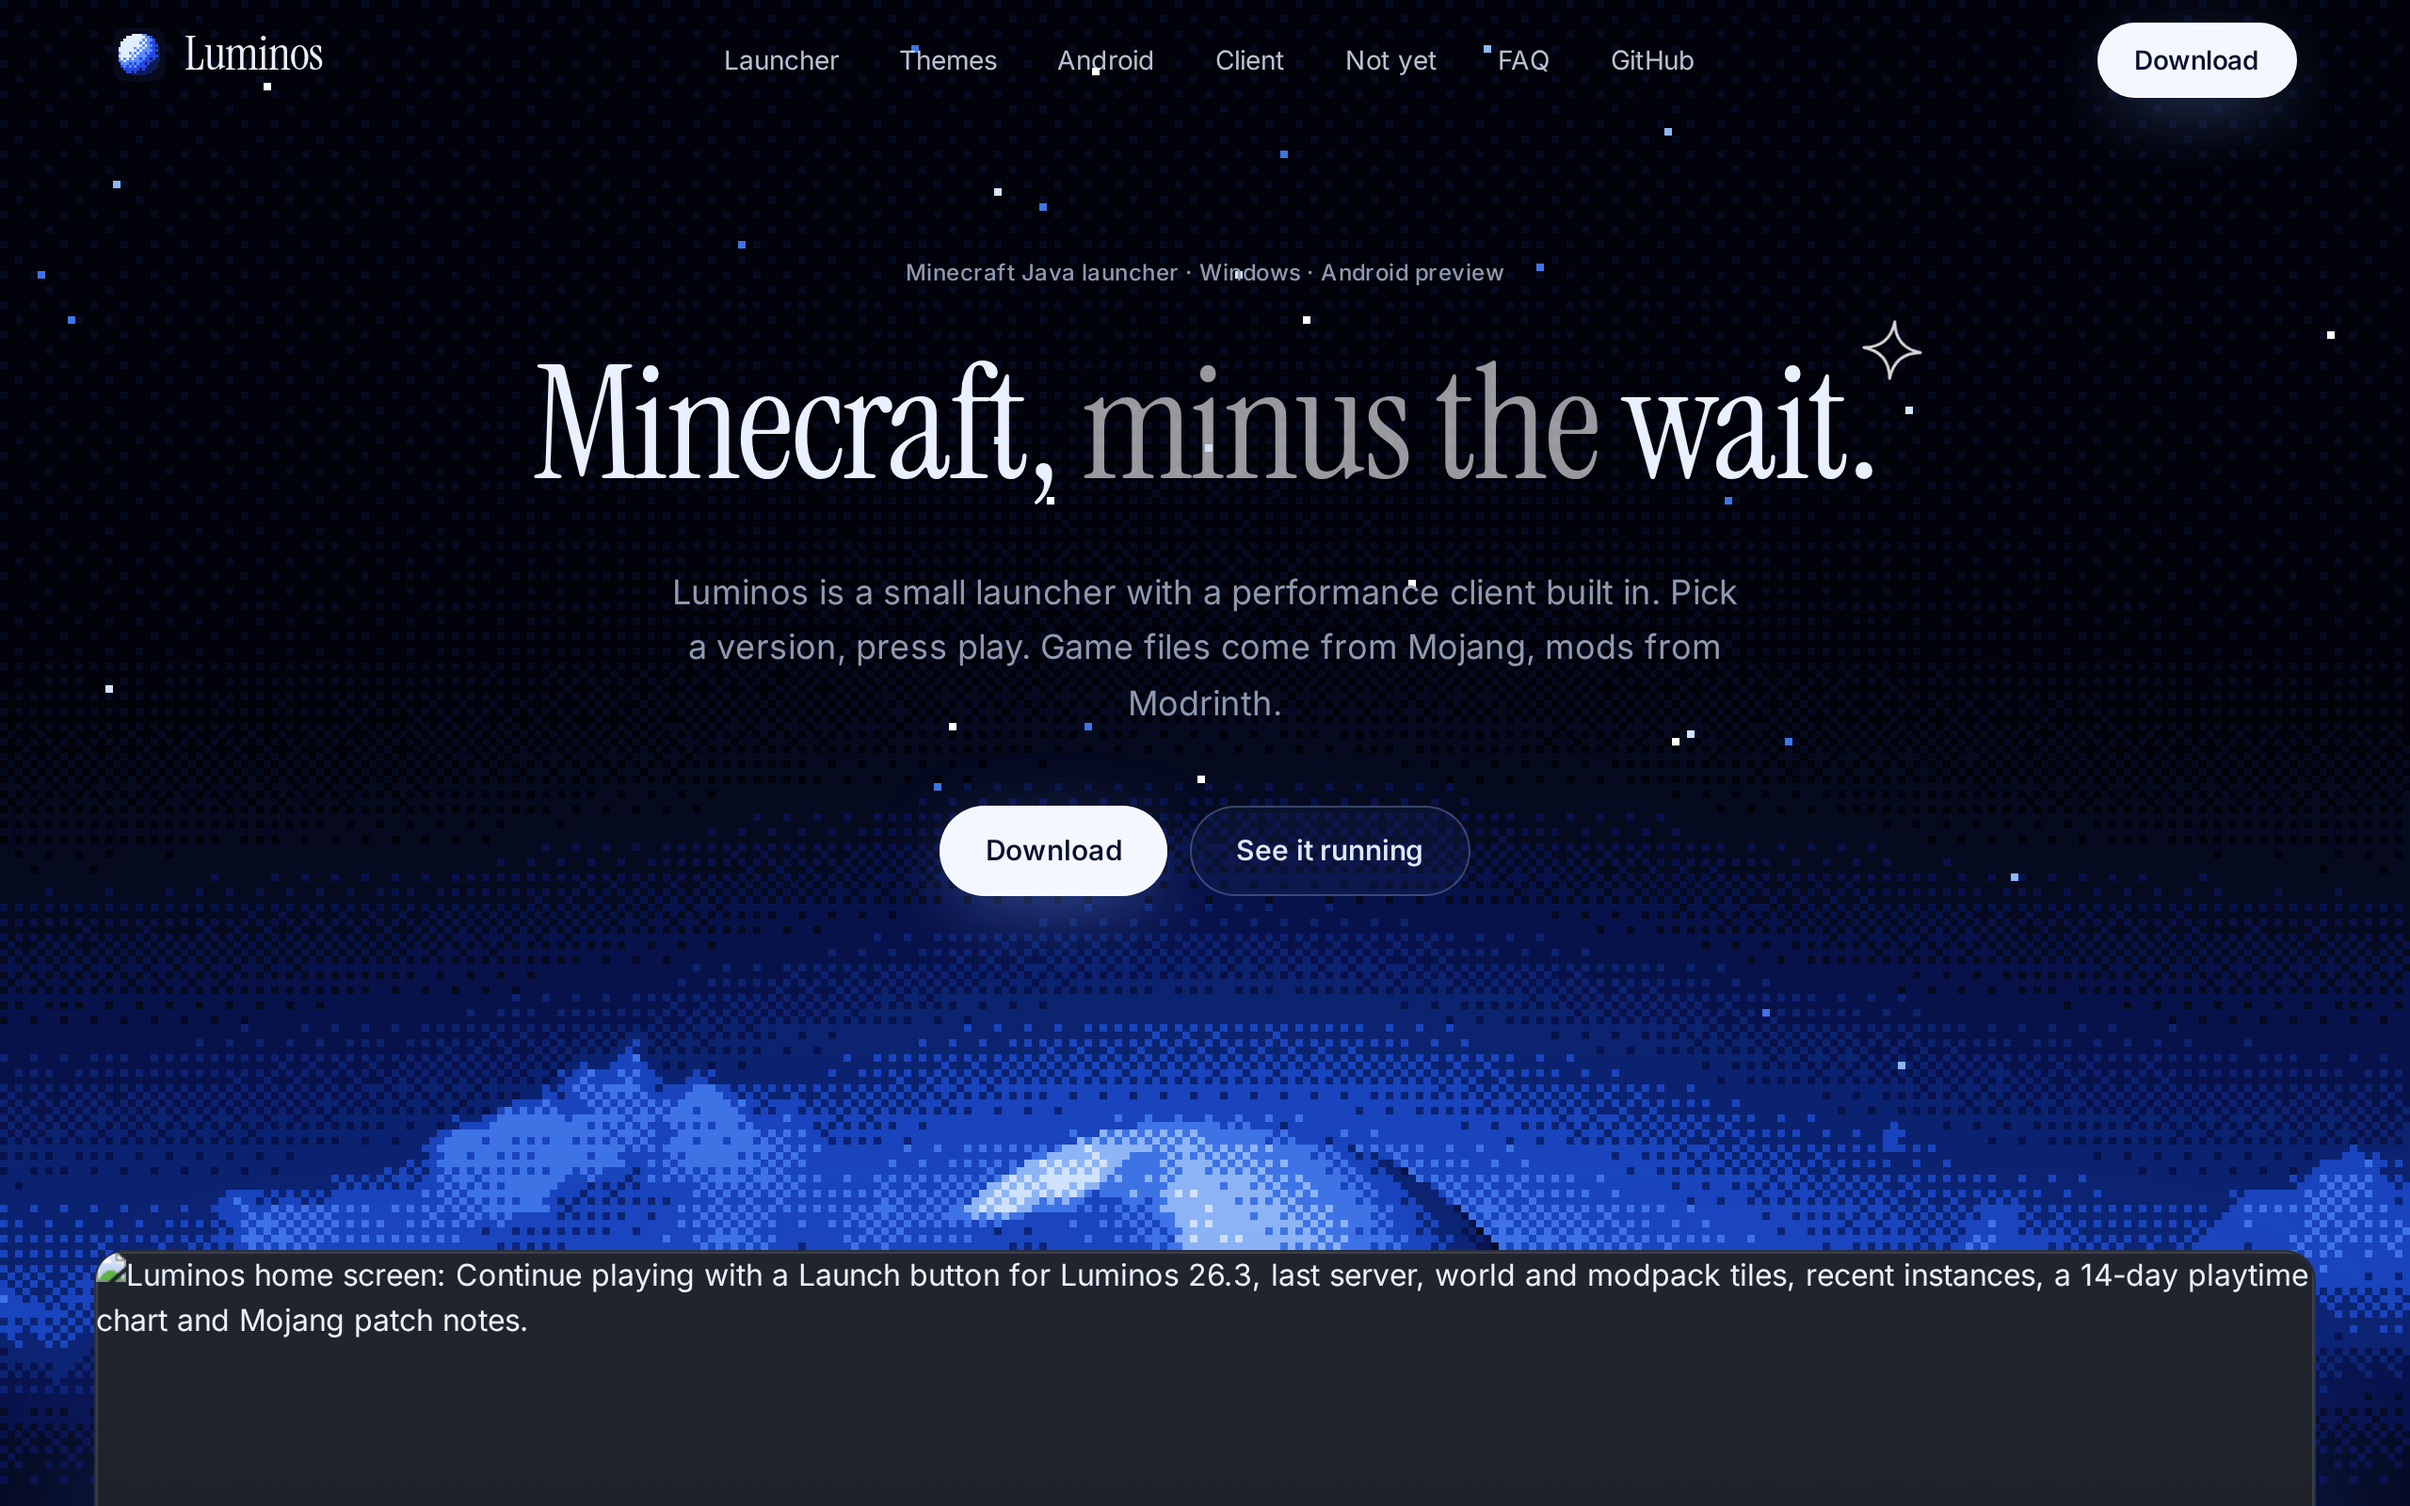
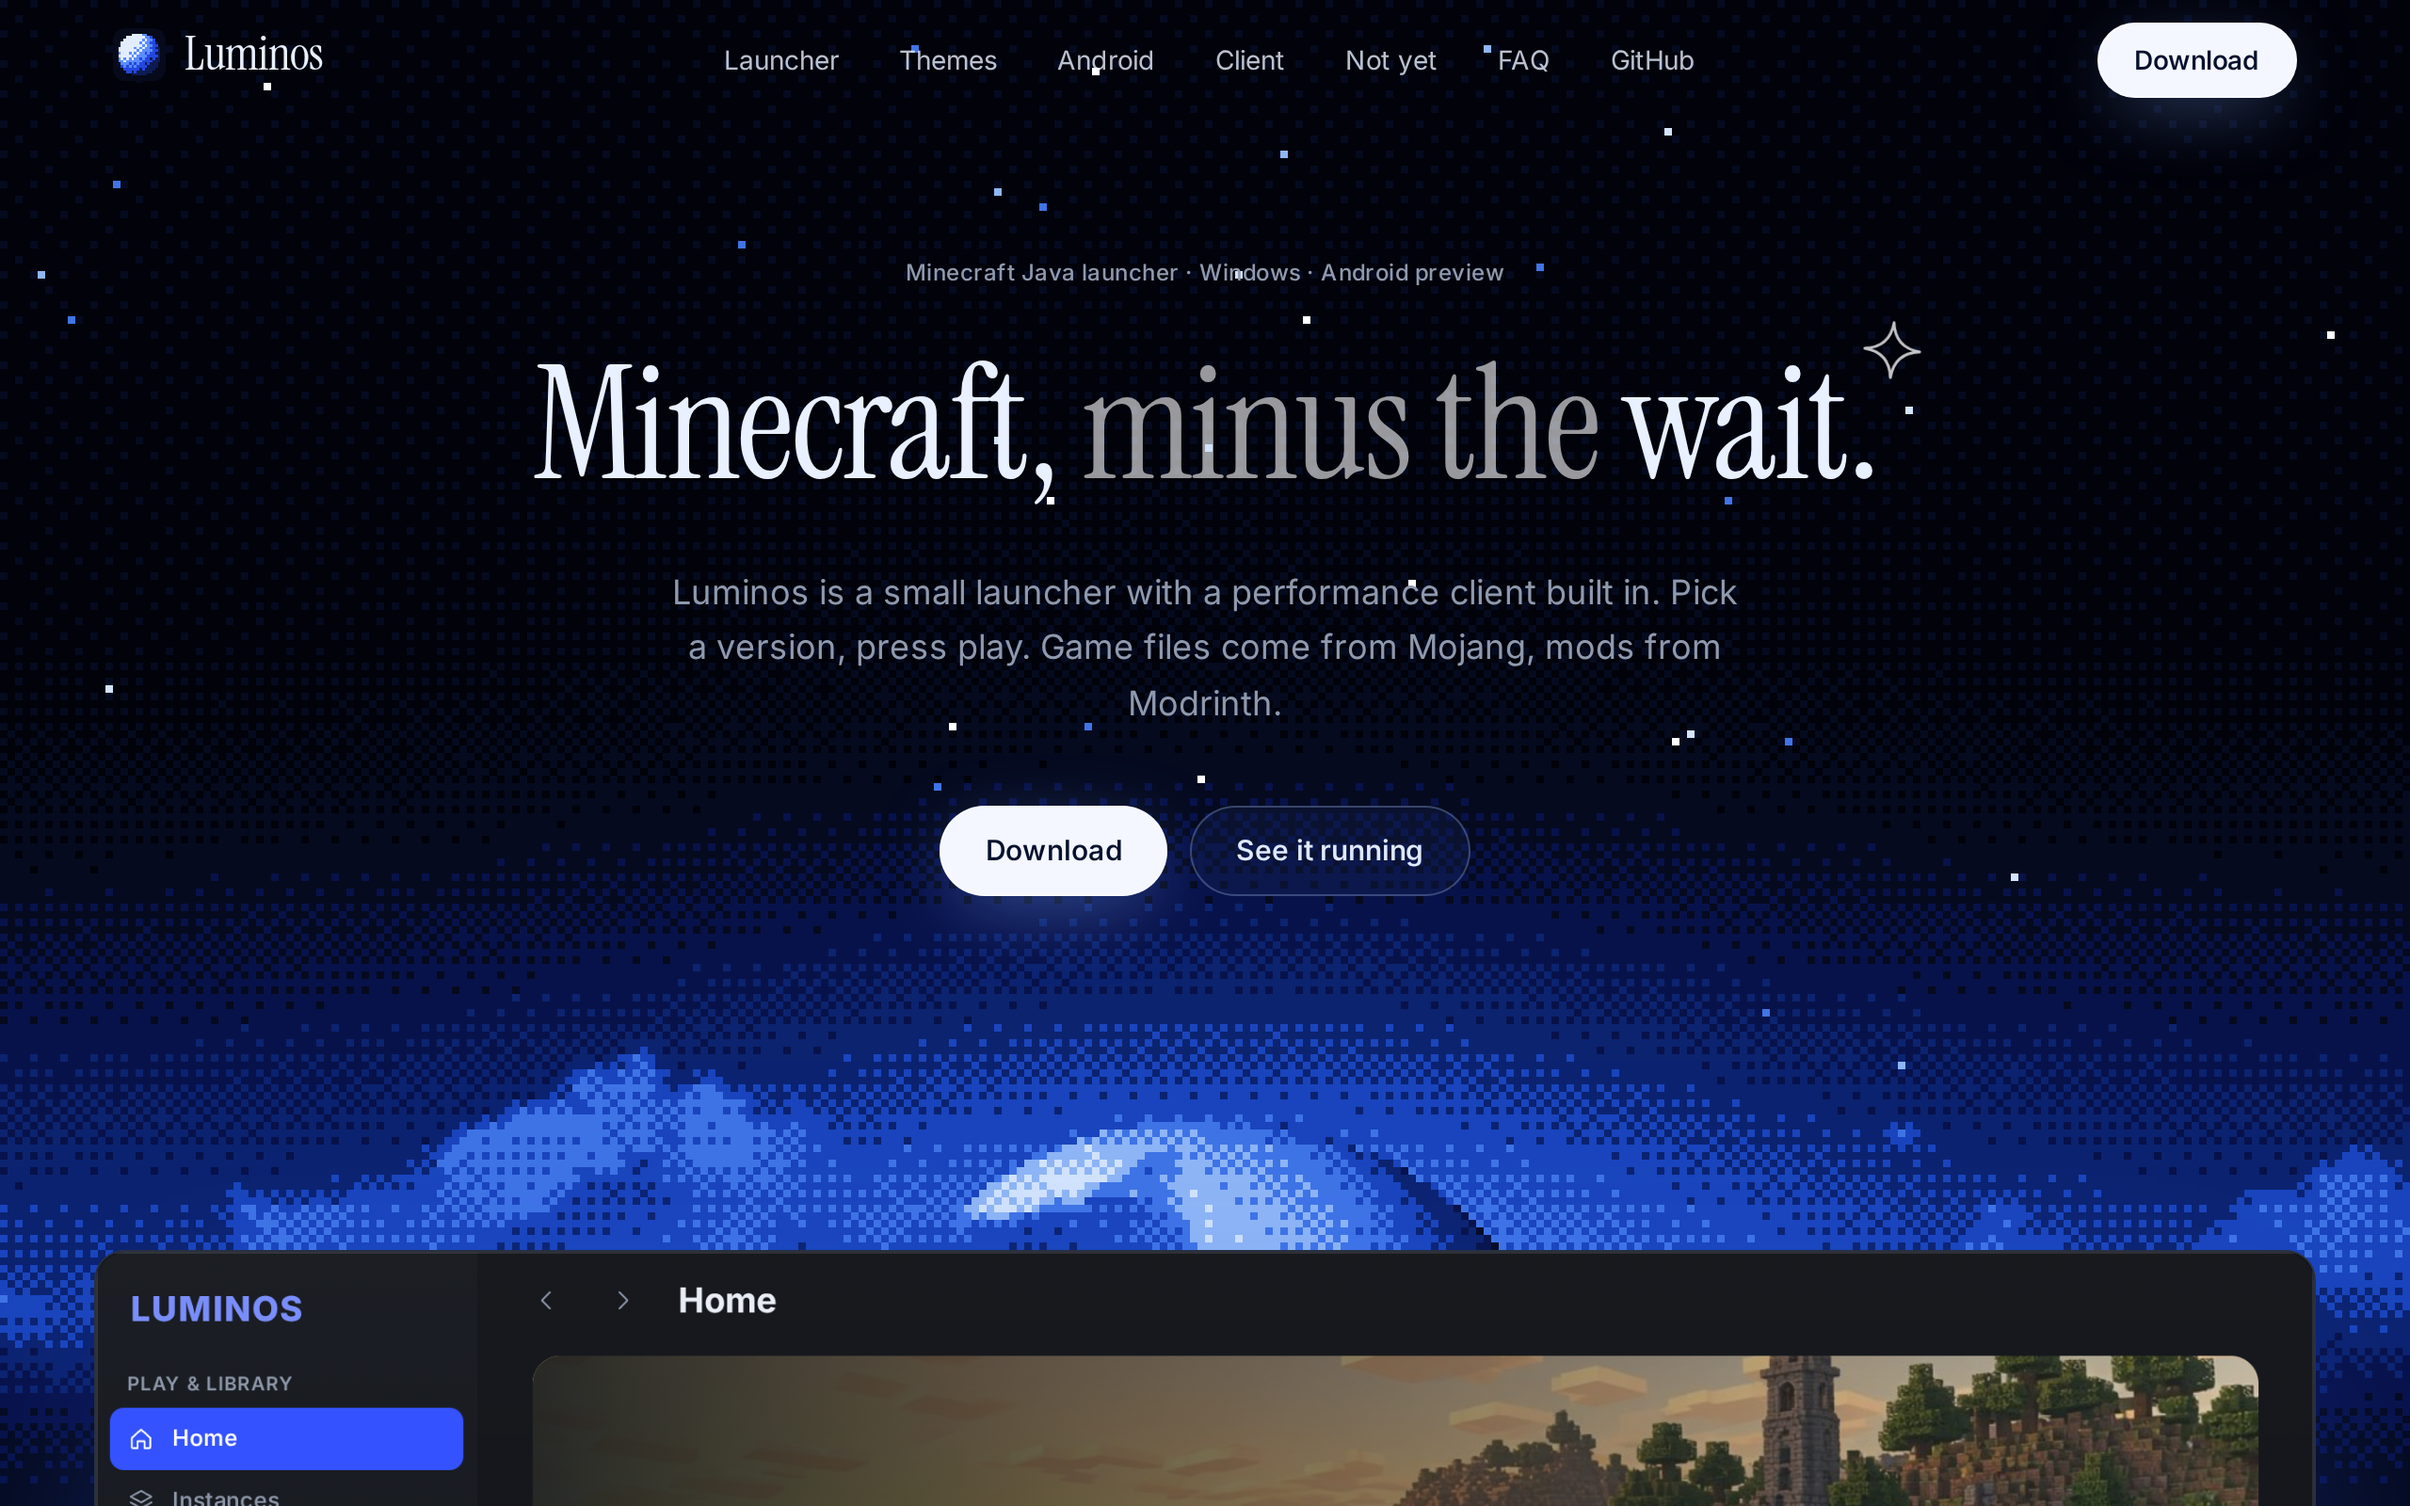
docs: real site-3 / live-site capture of the deployed v1.0.0 site; critique log

diff --git a/docs/design/rounds/CRITIQUE_LOG.md b/docs/design/rounds/CRITIQUE_LOG.md
@@ -22,7 +22,7 @@ Round 3 is identical to round 2: no further site changes were made after the fir
 ## Audit correction (post-release review)
 An independent re-check of v1.0.0 found the earlier claims overstated. Corrected here:
 - **Rounds were not all real.** For home, mods, settings and site, `-1`, `-2` and `-3` were byte-identical (no change between rounds). Only cosmetics, hud-studio (1 to 2) and themes (2 to 3) actually changed between rounds.
-- **`site-2/3.png` were blank white captures** (a capture bug), so the site had no valid render-critique record. `site-3.png` is now a real capture of the deployed site.
+- **`site-2/3.png` were blank white captures** (a capture bug), so the site had no valid render-critique record. `site-3.png` and `live-site-v1.0.0.png` are now a real 1280x800@2x Playwright capture of the deployed site (checked: Download links resolve to v1.0.0 assets; served home-3.png hash equals the repo copy). Pages deploys hit a GitHub-side 500 (githubstatus: Pages partial outage) several times; the deploy succeeded on a later workflow_dispatch.
 - **Home round 3 (real change):** the Quickplay banners for the two worlds were the same blurred per-version cover, so the cards read as duplicates. They now use three distinct, sharp in-game crops. `home-3.png` and `site/public/screenshots/home-3.png` are re-rendered from this build.
 - `site/public/release.json` still pointed at the `v1.0.0-rc2` prerelease. It is regenerated from the published v1.0.0 `SHA256SUMS.txt`.
 - Still open: Mods icons are line glyphs, not voxel art; cosmetic card previews are stills (no flapping animation in the grid); wings are viewed 3/4 from behind. The Windows installer is unsigned and the Android build is a launcher preview (Minecraft does not launch).
